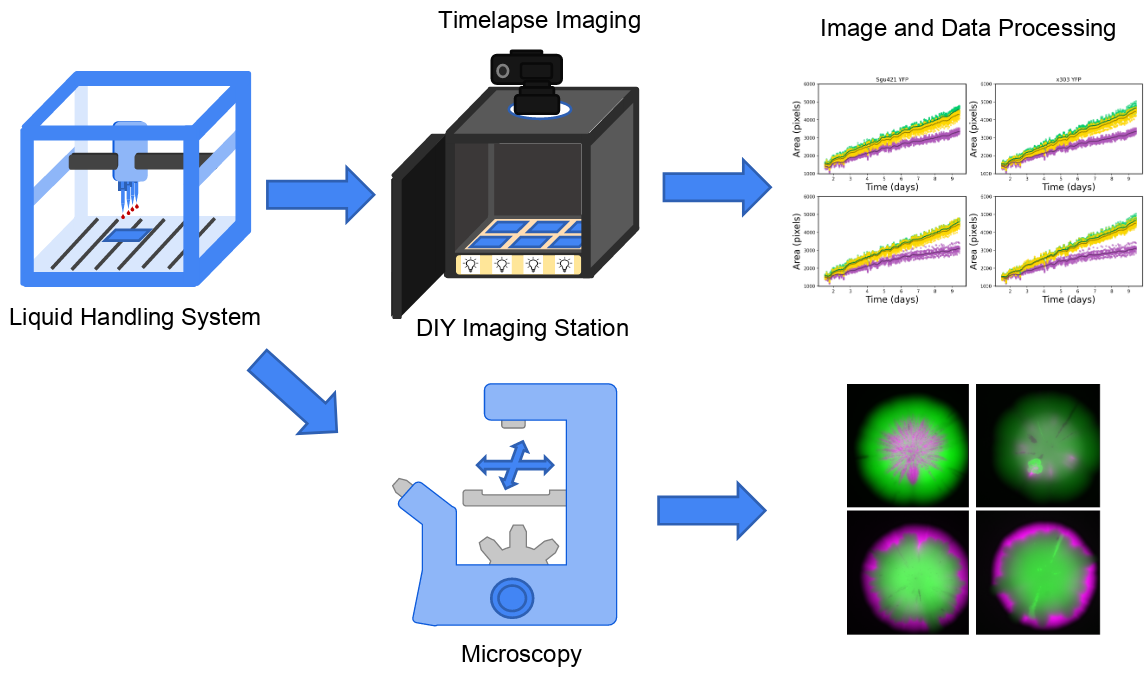
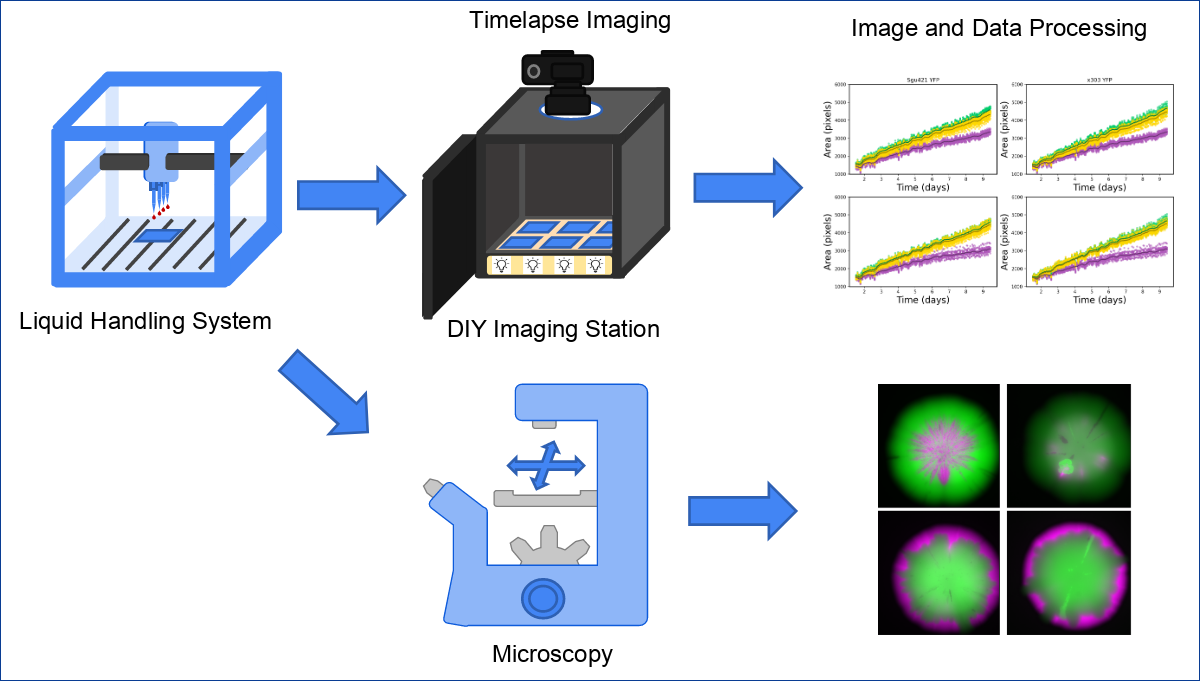
Added licence text to main README.md and added white background to graphical abstract file.

diff --git a/README.md b/README.md
@@ -207,4 +207,28 @@ This workflow ensures accurate calibration and analysis of your cell colony grow
 
 ## Licence
 
-[Licence file:](LICENSE)
+
+
+MIT License
+
+Copyright (c) 2025 Csikász-Nagy Lab
+
+Permission is hereby granted, free of charge, to any person obtaining a copy
+of this software and associated documentation files (the "Software"), to deal
+in the Software without restriction, including without limitation the rights
+to use, copy, modify, merge, publish, distribute, sublicense, and/or sell
+copies of the Software, and to permit persons to whom the Software is
+furnished to do so, subject to the following conditions:
+
+The above copyright notice and this permission notice shall be included in all
+copies or substantial portions of the Software.
+
+THE SOFTWARE IS PROVIDED "AS IS", WITHOUT WARRANTY OF ANY KIND, EXPRESS OR
+IMPLIED, INCLUDING BUT NOT LIMITED TO THE WARRANTIES OF MERCHANTABILITY,
+FITNESS FOR A PARTICULAR PURPOSE AND NONINFRINGEMENT. IN NO EVENT SHALL THE
+AUTHORS OR COPYRIGHT HOLDERS BE LIABLE FOR ANY CLAIM, DAMAGES OR OTHER
+LIABILITY, WHETHER IN AN ACTION OF CONTRACT, TORT OR OTHERWISE, ARISING FROM,
+OUT OF OR IN CONNECTION WITH THE SOFTWARE OR THE USE OR OTHER DEALINGS IN THE
+SOFTWARE.
+
+see [Licence File](LICENSE)
